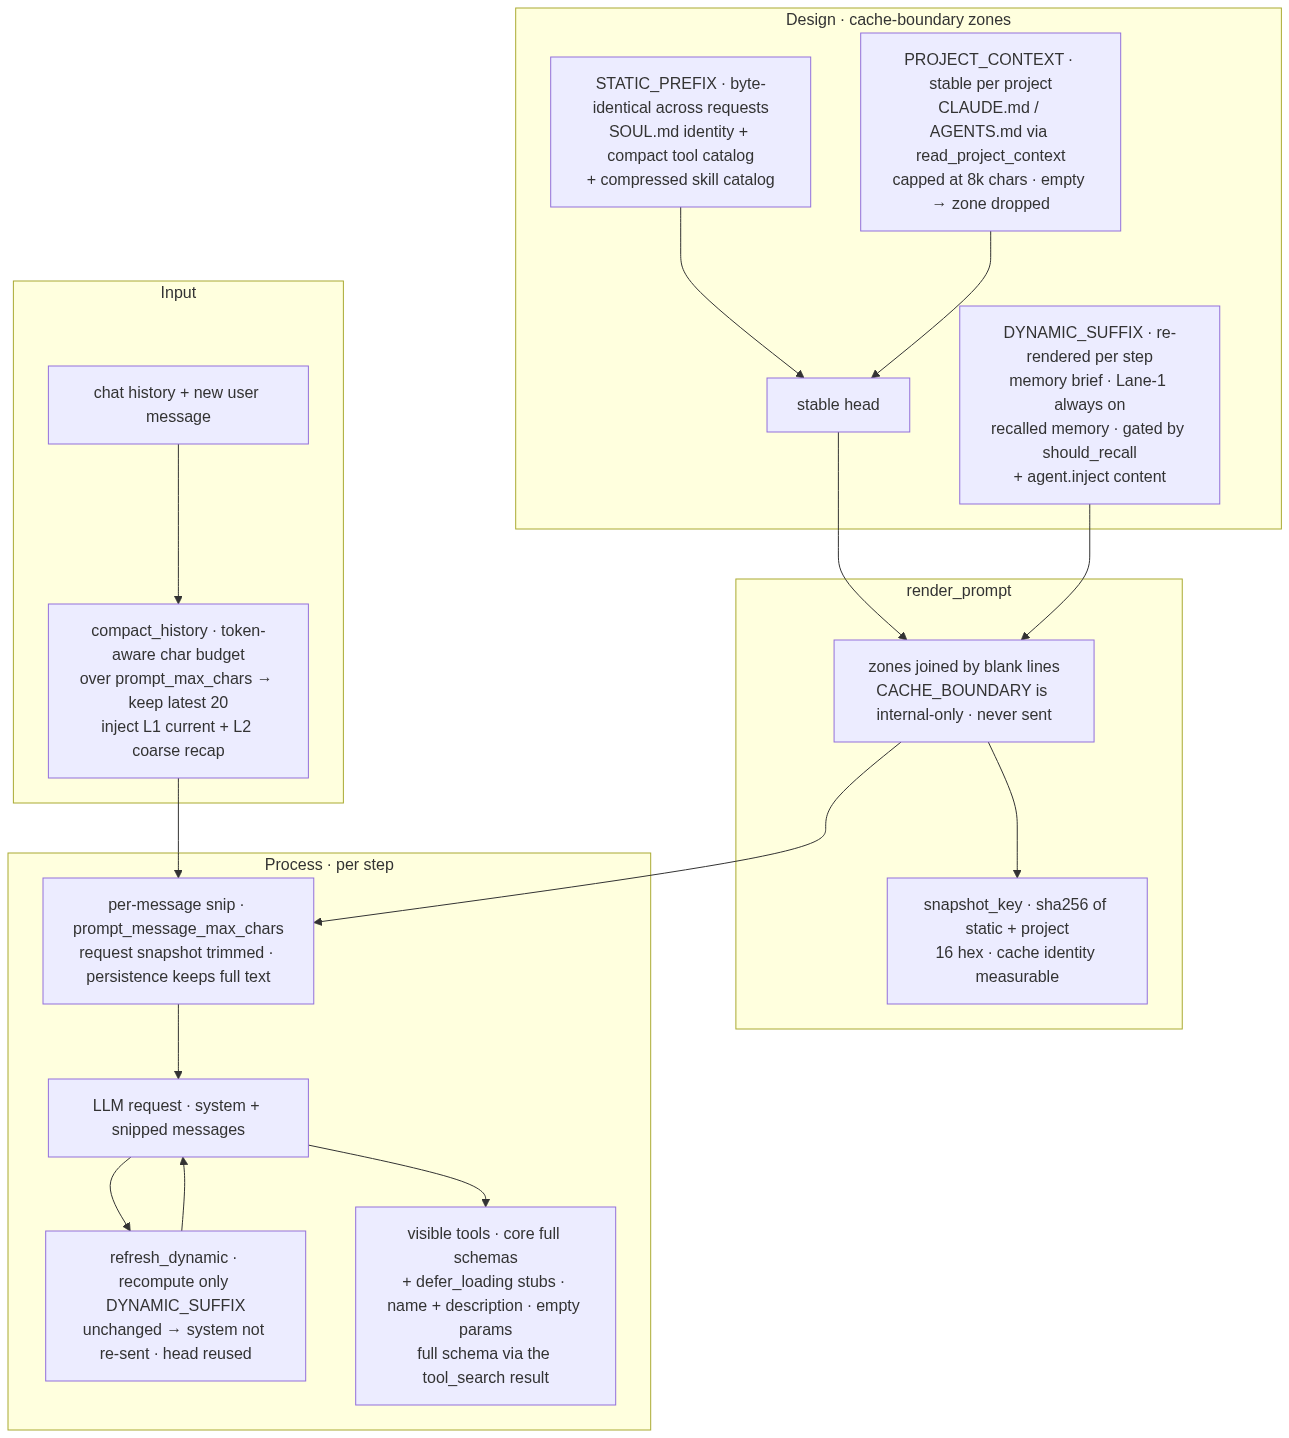
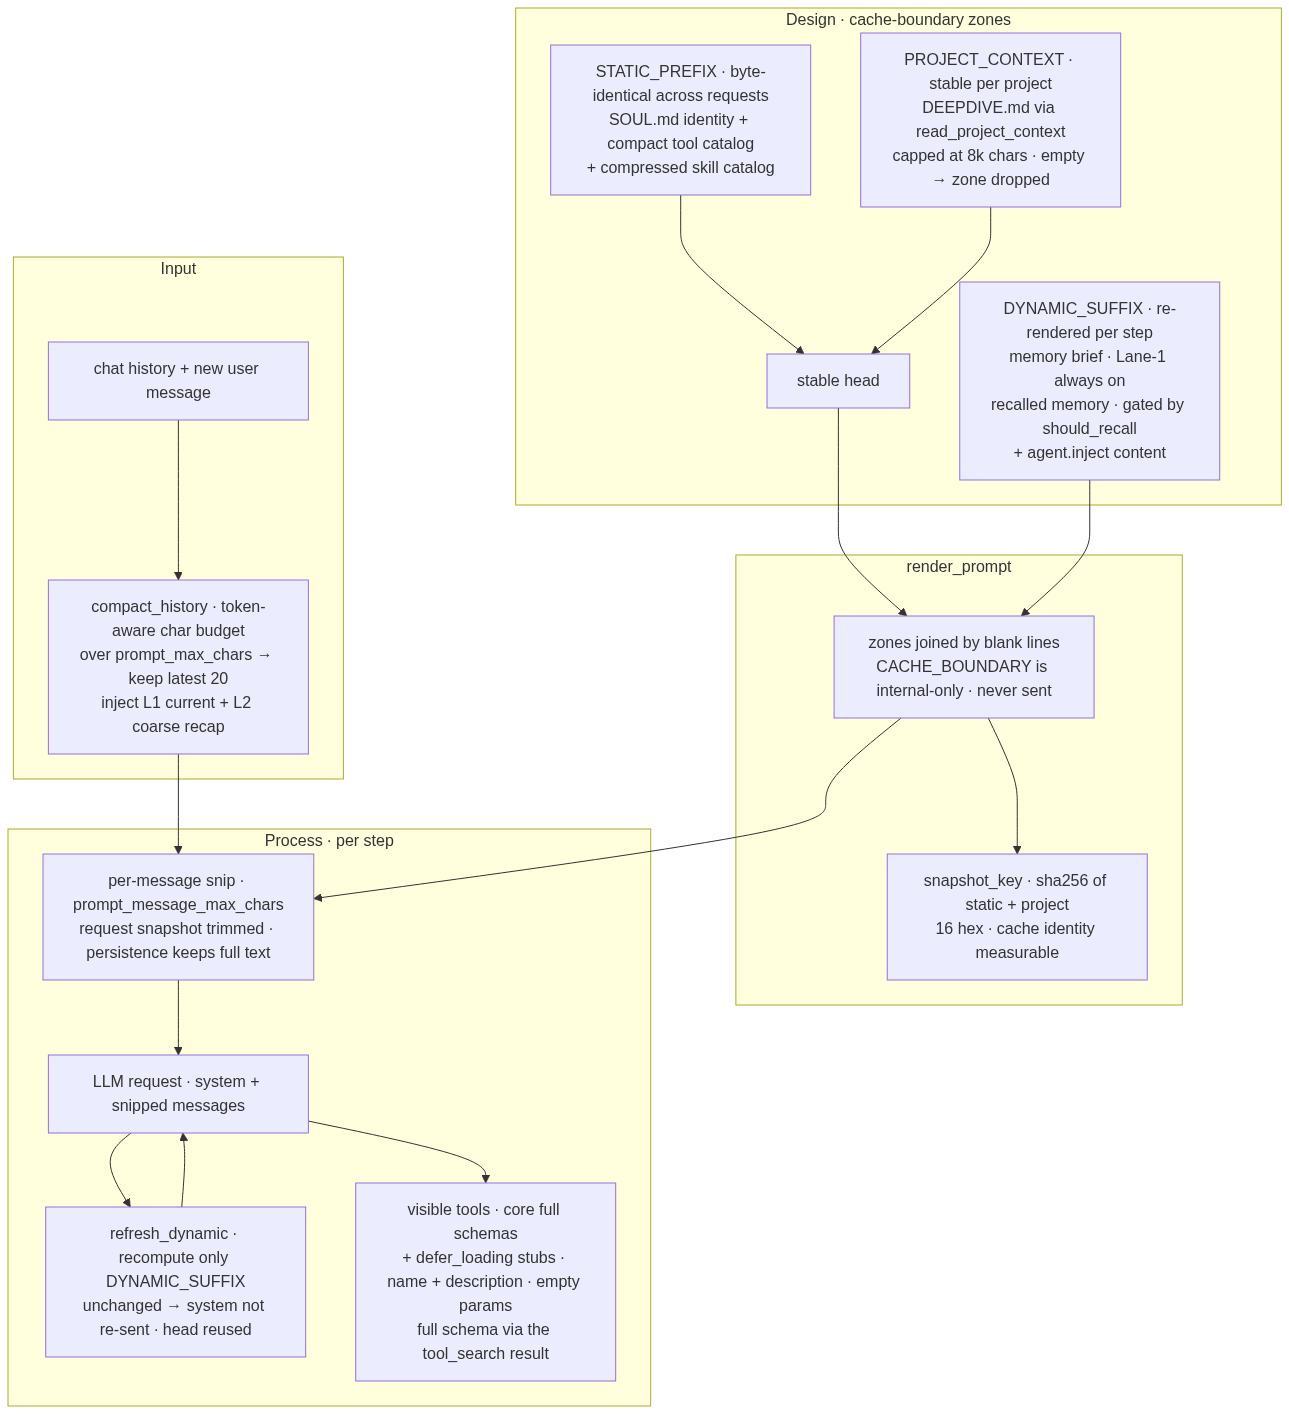
refactor: project context loader reads DEEPDIVE.md instead of CLAUDE.md/AGENTS.md
DeepDive's own convention file (DEEPDIVE.md) replaces the foreign
CLAUDE.md/AGENTS.md literals in code, tests, docs, and the prompt
flowchart. read_project_context defaults to ["DEEPDIVE.md"]; the zone
drops empty as before.

false

diff --git a/tests/test_project_context.py b/tests/test_project_context.py
@@ -1,9 +1,9 @@
 """Tests for the project-context loader and its wiring into the kernel.
 
-Covers: reading the first existing convention file (CLAUDE.md preferred over AGENTS.md), the
-character cap with a truncation marker, the empty-workspace fallback, and that a non-empty
-``project_context`` renders into the system prompt and feeds ``snapshot_key`` while an absent
-one renders nothing.
+Covers: reading the first existing convention file (``DEEPDIVE.md`` by default, or an explicit
+``files`` list), the character cap with a truncation marker, the empty-workspace fallback, and
+that a non-empty ``project_context`` renders into the system prompt and feeds ``snapshot_key``
+while an absent one renders nothing.
 """
 from agent import FakeLLM, ToolRuntime, assistant
 from agent.kernel import AgentKernel
@@ -11,17 +11,18 @@ from agent.project_context import read_project_context
 from agent.system_prompt import render_prompt
 
 
-def test_reads_claude_md_preferring_it_over_agents_md(tmp_path):
-    (tmp_path / "CLAUDE.md").write_text("project rules here", encoding="utf-8")
-    (tmp_path / "AGENTS.md").write_text("agent rules here", encoding="utf-8")
+def test_reads_deepdive_md(tmp_path):
+    (tmp_path / "DEEPDIVE.md").write_text("project rules here", encoding="utf-8")
 
     assert read_project_context(tmp_path) == "project rules here"
 
 
-def test_falls_back_to_agents_md(tmp_path):
-    (tmp_path / "AGENTS.md").write_text("agent rules here", encoding="utf-8")
+def test_prefers_first_existing_file_when_files_given(tmp_path):
+    (tmp_path / "A.md").write_text("first rules", encoding="utf-8")
+    (tmp_path / "B.md").write_text("second rules", encoding="utf-8")
 
-    assert read_project_context(tmp_path) == "agent rules here"
+    assert read_project_context(tmp_path, files=["A.md", "B.md"]) == "first rules"
+    assert read_project_context(tmp_path, files=["B.md", "A.md"]) == "second rules"
 
 
 def test_empty_workspace_returns_empty(tmp_path):
@@ -29,7 +30,7 @@ def test_empty_workspace_returns_empty(tmp_path):
 
 
 def test_caps_oversized_file_with_truncation_marker(tmp_path):
-    (tmp_path / "CLAUDE.md").write_text("x" * 500, encoding="utf-8")
+    (tmp_path / "DEEPDIVE.md").write_text("x" * 500, encoding="utf-8")
 
     text = read_project_context(tmp_path, max_chars=100)
 

diff --git a/packages/agent/project_context.py b/packages/agent/project_context.py
@@ -1,11 +1,11 @@
-"""Project context loader: CLAUDE.md / AGENTS.md conventions for the PROJECT_CONTEXT zone.
+"""Project context loader: DEEPDIVE.md conventions for the PROJECT_CONTEXT zone.
 
 The cache-boundary prompt reserves a ``PromptZone.PROJECT_CONTEXT`` partition for project
-conventions (Claude Code's ``CLAUDE.md``, OpenClaw's ``AGENTS.md``). :func:`read_project_context`
-reads the first existing convention file under the agent's workspace and returns it capped at a
-character budget, so project rules reach the model while the zone stays stable per project and
-bounded in size. When no convention file exists it returns ``""`` — the assembler drops the empty
-zone, so the rendered prompt is byte-identical to the no-project-context case.
+conventions. :func:`read_project_context` reads the first existing convention file under the
+agent's workspace and returns it capped at a character budget, so project rules reach the model
+while the zone stays stable per project and bounded in size. When no convention file exists it
+returns ``""`` — the assembler drops the empty zone, so the rendered prompt is byte-identical to
+the no-project-context case.
 """
 from __future__ import annotations
 
@@ -26,11 +26,11 @@ def read_project_context(
 ) -> str:
     """Return the first existing convention file's contents under ``workspace``.
 
-    Files are tried in order (``CLAUDE.md`` before ``AGENTS.md``, Claude Code precedence), so a
-    repo with both conventions only feeds the primary one to the model. Reads are capped at
-    ``max_chars``; a missing file or an empty workspace yields ``""``.
+    Files are tried in order, so a repo with several conventions only feeds the primary one to
+    the model. Reads are capped at ``max_chars``; a missing file or an empty workspace yields
+    ``""``.
     """
-    for name in files or ["CLAUDE.md", "AGENTS.md"]:
+    for name in files or ["DEEPDIVE.md"]:
         path = (workspace / name).resolve()
         try:
             if path.is_file():

diff --git a/packages/agent/kernel.py b/packages/agent/kernel.py
@@ -8,7 +8,7 @@ Standard prompt layout (aligned with the cache-boundary spec):
 
 - ``STATIC_PREFIX`` — SOUL.md identity + the compact tool catalog + the compressed skill
   catalog (byte-identical across requests → the provider reuses its prefix cache).
-- ``PROJECT_CONTEXT`` — CLAUDE.md / AGENTS.md project conventions (stable per project; empty
+- ``PROJECT_CONTEXT`` — DEEPDIVE.md project conventions (stable per project; empty
   when none are present, in which case the zone renders nothing).
 - ``DYNAMIC_SUFFIX`` — the session memory brief (loaded once per run via ``begin_session``)
   plus any ``agent.inject()`` content; only this segment is re-rendered per step.
@@ -102,8 +102,8 @@ class AgentKernel:
         if soul:
             self.assembler.section("soul", PERSONA_ORDER, soul, zone=PromptZone.STATIC_PREFIX)
 
-        # Project conventions (CLAUDE.md / AGENTS.md) sit in their own stable zone; they become
-        # part of the snapshot_key identity so project rules are part of the prefix-cache contract.
+        # Project conventions (DEEPDIVE.md) sit in their own stable zone; they become part of
+        # the snapshot_key identity so project rules are part of the prefix-cache contract.
         if project_context:
             self.assembler.section(
                 "project_context",

diff --git a/packages/agent/system_prompt.py b/packages/agent/system_prompt.py
@@ -8,7 +8,7 @@ on-demand retrieval. ``{{name}}`` placeholders are interpolated from registered 
 
 The ``CacheBoundaryAssembler`` subclass adds a cache-boundary partition: ``STATIC_PREFIX``
 (SOUL.md identity + core tool guidance, byte-identical across requests/steps) and
-``PROJECT_CONTEXT`` (CLAUDE.md / AGENTS.md, stable within a project) render once and sit
+``PROJECT_CONTEXT`` (DEEPDIVE.md, stable within a project) render once and sit
 above a fixed boundary marker, while only the ``DYNAMIC_SUFFIX`` (memory/skills/injected
 runtime state) is re-rendered per step — so LLM providers can hit their prefix cache on the
 stable head and the request stays small.
@@ -38,7 +38,7 @@ class PromptZone(Enum):
 
     - ``STATIC_PREFIX``: byte-identical across requests/steps (SOUL.md identity + core
       tool guidance). Sits above the cache boundary; the provider reuses its KV cache here.
-    - ``PROJECT_CONTEXT``: stable within a project (CLAUDE.md / AGENTS.md conventions).
+    - ``PROJECT_CONTEXT``: stable within a project (DEEPDIVE.md conventions).
     - ``DYNAMIC_SUFFIX``: changes every step (memory recall, skill directory, sandbox
       state, injected runtime context). Sits below the cache boundary.
     """

diff --git a/packages/core/config.py b/packages/core/config.py
@@ -93,8 +93,8 @@ class Settings(BaseSettings):
     prompt_max_chars: int = 120_000            # total window char budget that triggers compaction (~30k tokens)
     prompt_message_max_chars: int = 8000       # per-message content cap when building the LLM request (snip)
 
-    # Project context (CLAUDE.md / AGENTS.md conventions injected into the prompt's PROJECT_CONTEXT zone).
-    project_context_files: list[str] = ["CLAUDE.md", "AGENTS.md"]
+    # Project context (DEEPDIVE.md conventions injected into the prompt's PROJECT_CONTEXT zone).
+    project_context_files: list[str] = ["DEEPDIVE.md"]
     project_context_max_chars: int = 8000      # per-file read cap for the project convention file
 
     # ── Auth ──

diff --git a/docs/architecture.md b/docs/architecture.md
@@ -239,7 +239,7 @@ Sections register with an `order` plus a `zone` and merge ascending within it. T
 | zone | content | stability |
 |---|---|---|
 | `PromptZone.STATIC_PREFIX` | SOUL.md identity (`data/soul.md`) + compact tool catalog + compressed skill catalog | byte-identical across requests → the provider reuses its prefix cache |
-| `PromptZone.PROJECT_CONTEXT` | the first existing `CLAUDE.md` / `AGENTS.md` under `settings.workspace_dir` (read by `read_project_context`, capped at `settings.project_context_max_chars`) | stable per project; empty when absent |
+| `PromptZone.PROJECT_CONTEXT` | the first existing `DEEPDIVE.md` under `settings.workspace_dir` (read by `read_project_context`, capped at `settings.project_context_max_chars`) | stable per project; empty when absent |
 | `PromptZone.DYNAMIC_SUFFIX` | per-step session memory brief + any `inject()` content | re-rendered every step |
 
 `assemble()` returns a `PromptAssembly {static_prefix, project_context, dynamic_suffix, tools,
@@ -260,7 +260,7 @@ memory/skill retrieval). `{{name}}` placeholders interpolate from registered var
 flat `SystemPrompt` (no zones, no boundary) still renders for backward compatibility.
 
 The **project context loader** (`agent/project_context.py::read_project_context`) reads the first
-existing convention file (`CLAUDE.md` preferred over `AGENTS.md`) under the agent's workspace and
+existing convention file (`DEEPDIVE.md`) under the agent's workspace and
 caps it at `settings.project_context_max_chars`; the kernel registers it into
 `PromptZone.PROJECT_CONTEXT`, so project rules become part of `snapshot_key`'s cache identity and
 reach the model on every turn. When no convention file exists the zone renders nothing, keeping the
@@ -558,7 +558,7 @@ rewrite → multi-recall → RRF fusion → rerank
 | Session extension points | `agent/session-start` / `agent/session-end` observers in the loop |
 | Stable prompt head for prefix cache | `CacheBoundaryAssembler` zones (internal `CACHE_BOUNDARY` separator, never rendered) + `snapshot_key()` |
 | Load a tool schema on demand | `tool_search` meta-tool → `ToolGateway.mount(name)` (defer_loading stub) + `schema_of(name)` in the result |
-| Inject project conventions | `read_project_context` → `PromptZone.PROJECT_CONTEXT` (CLAUDE.md / AGENTS.md, capped) |
+| Inject project conventions | `read_project_context` → `PromptZone.PROJECT_CONTEXT` (DEEPDIVE.md, capped) |
 | Bound the prompt window | per-message snip (`prompt_message_max_chars`) + char-budget autocompact (`prompt_max_chars`) |
 | Scope tool visibility per request | `ToolVisibilityPolicy` `allow` / `deny` / `present_as` (disposers) |
 | Gate a tool by session permission | `Sandbox.guard()` + `ToolPermission` (`classify_permissions`) |
@@ -1053,7 +1053,7 @@ merged ascending by `order` within each zone:
 | zone | content | stability |
 |---|---|---|
 | `STATIC_PREFIX` | SOUL.md identity (`soul` section, `PERSONA_ORDER=0`) + compact tool catalog + compressed skill catalog (`HARNESS_IDENTITY_ORDER=-100` / `SKILLS_ORDER=250`) | byte-identical across requests → prefix-cache reuse |
-| `PROJECT_CONTEXT` | workspace `CLAUDE.md` / `AGENTS.md` conventions (`PROJECT_CONTEXT_ORDER=-90`) | stable per project; renders nothing when absent |
+| `PROJECT_CONTEXT` | workspace `DEEPDIVE.md` conventions (`PROJECT_CONTEXT_ORDER=-90`) | stable per project; renders nothing when absent |
 | `DYNAMIC_SUFFIX` | session memory brief + proactive recall (`MEMORY_ORDER=200` / `+10`) + `inject()` content | re-rendered per step |
 
 `assemble()` resolves the static and project zones once and caches them
@@ -1076,8 +1076,8 @@ project-context zone is part of the prefix-cache contract.
 ### 16.4 Project context loader
 
 `agent/project_context.py::read_project_context(workspace, *, files, max_chars)` reads the first
-existing convention file in order (`CLAUDE.md` preferred over `AGENTS.md`, Claude Code precedence)
-under the agent's workspace, caps it at `settings.project_context_max_chars` (appending a
+existing convention file (`DEEPDIVE.md` by default) under the agent's workspace, caps it at
+`settings.project_context_max_chars` (appending a
 `…(truncated)` marker), and returns `""` when none exists. The kernel registers a non-empty result
 into `PromptZone.PROJECT_CONTEXT`; an empty zone renders nothing, keeping the prompt byte-identical
 to the no-context case. The loader runs in `apps/api/deps.py` and feeds the value into the kernel,
@@ -1132,5 +1132,5 @@ permission guard (a READ-only session cannot gain write tools by mounting them).
 |---|---|---|
 | `prompt_max_chars` | `120_000` | total-window character budget for token-aware autocompact |
 | `prompt_message_max_chars` | `8_000` | per-message snip cap on the request snapshot |
-| `project_context_files` | `["CLAUDE.md", "AGENTS.md"]` | convention files tried in order |
+| `project_context_files` | `["DEEPDIVE.md"]` | convention files tried in order |
 | `project_context_max_chars` | `8_000` | cap on the project-context zone, with truncation marker |

diff --git a/README.md b/README.md
@@ -159,7 +159,7 @@ flowchart TB
 
     subgraph zones["Design · cache-boundary zones"]
         SP["STATIC_PREFIX · byte-identical across requests<br/>SOUL.md identity + compact tool catalog<br/>+ compressed skill catalog"]
-        PC["PROJECT_CONTEXT · stable per project<br/>CLAUDE.md / AGENTS.md via read_project_context<br/>capped at 8k chars · empty → zone dropped"]
+        PC["PROJECT_CONTEXT · stable per project<br/>DEEPDIVE.md via read_project_context<br/>capped at 8k chars · empty → zone dropped"]
         DS["DYNAMIC_SUFFIX · re-rendered per step<br/>memory brief · Lane-1 always on<br/>recalled memory · gated by should_recall<br/>+ agent.inject content"]
         SP --> HEAD["stable head"]
         PC --> HEAD
@@ -201,7 +201,7 @@ flowchart TB
 
 ### 💬 AI Chat Assistant
 - **Agentic Kernel** (`AgentKernel`): a composition root wiring a cache-boundary prompt assembler, deferred tool loading, dual-track memory, a skill catalog, and a read-only sandbox around a `ReactLoopAgent` step loop.
-- **Cache-Boundary Prompt**: the system prompt is partitioned into three zones — a byte-stable static prefix (SOUL.md + compact tool/skill catalog), project context, and a per-step dynamic suffix — so the provider's prefix cache reuses the stable head across steps. Project conventions are loaded from the workspace's `CLAUDE.md` / `AGENTS.md` into their own stable zone; `snapshot_key()` makes the cache identity measurable.
+- **Cache-Boundary Prompt**: the system prompt is partitioned into three zones — a byte-stable static prefix (SOUL.md + compact tool/skill catalog), project context, and a per-step dynamic suffix — so the provider's prefix cache reuses the stable head across steps. Project conventions are loaded from the workspace's `DEEPDIVE.md` into their own stable zone; `snapshot_key()` makes the cache identity measurable.
 - **Deferred Tool Loading**: the prompt carries only a compact `name + blurb` catalog plus the resident `tool_search` meta-tool; matched tools appear in the visible set as stable `name + description` stubs (defer_loading style) so the cached tools array never churns, and each tool's full schema is returned in the `tool_search` result. The prompt window is also bounded by a per-message snip plus a token-aware autocompact that fires on a character budget.
 - **Dual-Track Memory**: session recall fuses PostgreSQL tsvector (keyword) + pgvector (semantic) via RRF, recency-weighted so newer messages win near-ties; when the embedding service is offline it degrades to tsvector-only — never a silent empty. `memory_search` / `memory_save` are tools; `memory_save` writes guardrailed notes (kebab-case key, length-capped content, closed type taxonomy) to the local memory directory while the session stays read-only. Proactive recall injects top hits for your question into the prompt, and long conversations are auto-compacted into an LLM summary (bounded token window).
 - **Skill Catalog**: skills (SKILL.md) are advertised as a one-line compressed index; the full instructions are lazy-loaded through the `skill` meta-tool.
